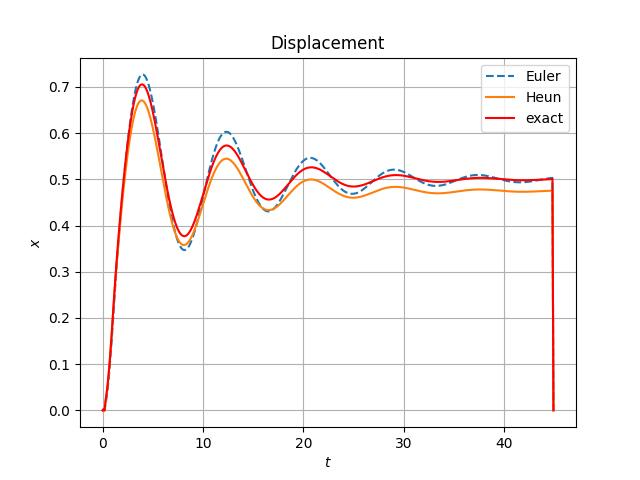
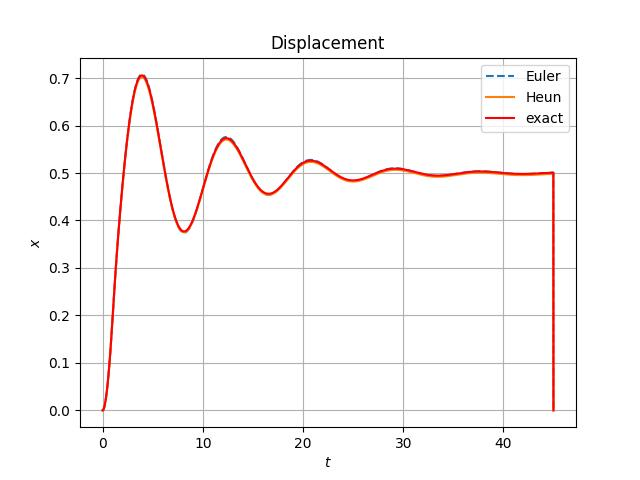
19.02

diff --git a/sub.py b/sub.py
@@ -1,33 +1,60 @@
+'''
+# Course: Modeling of Engineering
+# Author: Jiaqi Yao
+# Date: Dec 16, 2022
+'''
+
+# Import modules and library functions
 import numpy as np
 from scipy import integrate
 from matplotlib import pyplot as plt
 
-
-
-
-#h=float(input("step size:"))   #define the step size
-h=0.1 #for test
-print("h=")
+'''
+Step 1: input the step size h
+'''
+#h=float(input("step size:"))   # input step size manually
+h=0.01                          # choose one method to set the step size
+print("h=")                     # print the step size
 print(h)
 
-x=np.arange(0,45,h) # each of the time point
+
+'''
+Step 2: Defind basic variables and functions
+'''
+
+x=np.arange(0,45,h) # Selecting time sampling points, from 0 to 45 in each h
 
 
-def impulse(t):
+def impulse(t):     # Define the impulse force
     if t<1:
         return 1
     else:
         return 0
 
-def Euler(Z,x): #function for Euler method
-    Z = np.zeros((len(x), 4))
-    Z3=np.zeros(len(x))
-    for i in range(len(x)-1):
-        Z[i+1]=h*state_matrix(x[i], Z[i])+Z[i]
-        Z3[i]=Z[i][2]
-    
-    return Z3
 
+def state_matrix(x,Z): # Define the state space matrix
+ dz1=Z[1]
+ dz2=-Z[0]-Z[1]+Z[3]    # There is a -0.5 be ignored because the constant disappears after differentiation.
+ dz3=Z[3]
+ dz4=Z[1]-Z[3]+0.5*impulse(x)
+
+ return np.array([dz1,dz2,dz3,dz4])
+
+
+
+
+def Euler(Z,x):     # function for Euler method
+    Z = np.zeros((len(x), 4))   # Defining two-dimensional arrays Z: 
+    Z3=np.zeros(len(x))         # Defining one-dimensional arrays Z3 for extract the X2(t)
+    for i in range(len(x)-1):
+        Z[i+1]=h*state_matrix(x[i], Z[i])+Z[i] # f(x)=f(x,y)+h*f'(x,y)
+        Z3[i]=Z[i][2]      # Extract the X2(t)
+    
+    return Z3   # Return a one-dimensional arrays
+
+
+
+# This is the old version of function by using one-dimensional arrays
 '''
     for i in range(len(x)-1):
         z1[i+1]=z1[i]+h*f1(z2[i],x[i])   
@@ -39,14 +66,17 @@ def Euler(Z,x): #function for Euler method
     return [z1,z2,z3,z4]
 '''
 
-def heun(Z,x): #function for Heun method
+def heun(Z,x):      #  function for Heun method
     Z = np.zeros((len(x), 4))
     Z3=np.zeros(len(x))
     for i in range(len(x)-1):
-        Z[i+1]=Z[i]+h*(0.5*state_matrix(x[i], Z[i])+0.5*state_matrix(x[i]+h, Z[i]+h*state_matrix(x[i], Z[i])))
+        Z[i+1]=Z[i]+h*(0.5*state_matrix(x[i], Z[i])+0.5*state_matrix(x[i]+h, Z[i]+h*state_matrix(x[i], Z[i]))) 
+        #k1=f(x,y)
+        #k2=f(x+h,y+k1*h)
+        # f(x+1)=f(x,y)+h*(0.5*k1+0.5*k2)
         Z3[i]=Z[i][2]
     
-    return Z3
+    return Z3  
 
 '''
     h=x[1]-x[0]
@@ -66,13 +96,10 @@ def heun(Z,x): #function for Heun method
 '''
 
 
-def state_matrix(x,Z):
- dz1=Z[1]
- dz2=-Z[0]-Z[1]+Z[3]
- dz3=Z[3]
- dz4=Z[1]-Z[3]+0.5*impulse(x)
-
- return np.array([dz1,dz2,dz3,dz4])
+# Exact solution by using odeint
+F = lambda Z,t: [Z[1],Z[3] - Z[1] - Z[0],Z[3],impulse(t)/2 + Z[1] - Z[3]] 
+# Defined the function
+# There is a -0.5 be ignored because the constant disappears after differentiation.
 
 
 '''
@@ -94,18 +121,22 @@ def ode(t,u): #odeint - the exact solution
     return dzdt
 
 '''
+'''
+Step 3: Solve the function 
+'''
 
-F = lambda Z,t: [Z[1],Z[3] - Z[1] - Z[0],Z[3],impulse(t)/2 + Z[1] - Z[3]]
 Eu_result= Euler(state_matrix,x)  # z is the Euler method solution
 He_result= heun(state_matrix,x)   # w is the Heun method solution
-Exact = integrate.odeint(F,[0,0,0,0],x) # exact solution
-
+Exact = integrate.odeint(F,[0,0,0,0],x) #solve the function
 
 exact=np.zeros(len(x))     # Extract the third variables - X2(t)
 for i in range(len(x)-1):
  exact[i]=Exact[i][2]
  i+=1
 
+'''
+Step4: error analysis
+'''
 
 Error_euler=np.zeros(len(x))   #error array initialize
 Error_Heun=np.zeros(len(x))
@@ -119,6 +150,10 @@ for i in range(len(x)-1):  #save the error and print the result
  Error_Heun[i]=error(He_result[i],exact[i])
  print(x[i],"\t",exact[i],"\t",Eu_result[i],"\t ",error(Eu_result[i],exact[i]),"\t",He_result[i],error(He_result[i],exact[i]),"\t",end="\t")
  print()
+
+'''
+Step5 : Plot the figure
+'''
 
 # plot the simulation
 plt.plot(x,Eu_result,'--',label='Euler')
